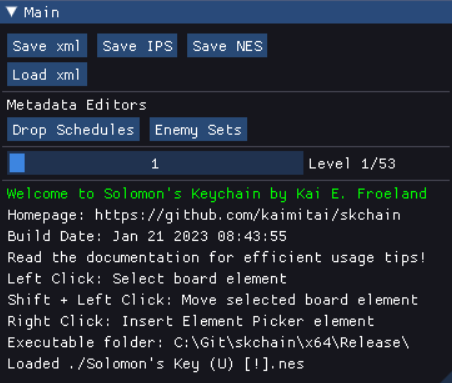
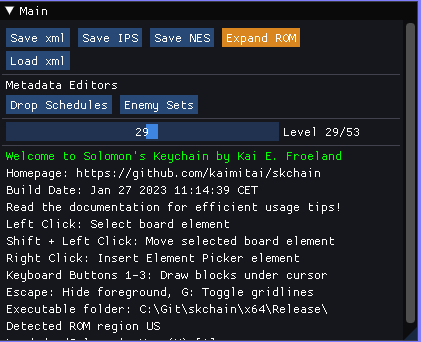
Update documentation for v1.0, and extract more item codes

diff --git a/docs/readme.html b/docs/readme.html
@@ -3,7 +3,7 @@
 
 <head>
     <meta charset="UTF-8">
-    <title>Solomon's Keychain v0.2 - Documentation</title>
+    <title>Solomon's Keychain v1.0 - Documentation</title>
     <link rel="stylesheet" href="style.css">
 </head>
 
@@ -57,9 +57,11 @@
 
                 <hr>
 
-                <header>Solomon's Keychain v0.2 - Documentation</header>
+                <header>Solomon's Keychain v1.0 - Documentation</header>
 
-                <p>Thank you for checking out <a href="https://github.com/kaimitai/skchain/">Solomon's Keychain</a>. With this tool you will be able to alter the level data and game metadata for Solomon's Key (NES). We support altering the US, EU and JP versions of the game. Check out the various sections of this document for an explanation of the program's functionality.</p>
+                <p>Thank you for checking out <a href="https://github.com/kaimitai/skchain/">Solomon's Keychain</a>. With this tool you will be able to alter the level data and game metadata for Solomon's Key (NES). We support altering the US, EU and JP versions of the game. The application also supports expanding the ROM to vastly increase data size.</p>
+
+                <p>Check out the various sections of this document for an explanation of the program's functionality.</p>
 
                 <p>In order to use the level editor efficiently, it is recommended to read the documentation.</p>
 
@@ -76,6 +78,8 @@
                 <p>The application can also be started from the command-line with path to a NES-file as parameter. This means you can drag and drop a ROM file on the application to immediately load the file, at least on Windows.</p>
 
                 <p>When the editor starts successfully, it will tell you which NES-ROM file is loaded, which region the ROM belongs to, and which directory it uses as the working directory.</p>
+
+                <p>If the US-version of the ROM was loaded, it can be expanded to overcome data size limits.</p>
 
                 <p>There are three element types in the editor: Items, Monsters and Metadata. You can select elements from the element picker, and right-click on the gameboard to insert them. Metadata elements are blocks, constellation background, key position, door position, player start position and so on. The item elements are game items, which can be hidden or inside breakable blocks. The third type, enemies, represents game enemies and other sprites; fairies and Mighty Bomb Jack.</p>
 
@@ -108,7 +112,8 @@
                     <li><b>Save xml</b> button: Saves your work as a group of xmls, stored under a subfolder ./xml of the loaded ROM-file. This is the recommended file format to use for development.</li>
                     <li><b>Save IPS</b> button: Saves your work as an IPS-patch, which is the difference between your work and the initially loaded NES-file. This is the recommended format for patch distribution, as long as the base ROM loaded is the "official" version.</li>
                     <li><b>Save NES</b> button: Saves your work as an NES-file. This is the recommended format when testing your levels. If you loaded "SK.nes", the output filename will be "SK-out.nes" to avoid overwriting your base ROM which was loaded. If you want to overwrite the file instead, hold Shift when saving.</li>
-                    <li><b>Load xml</b> button: Will load xml-files from the xml-subfolder, if they exist.</li>
+                    <li><b>Expand ROM</b> button: Only available when the base US-version of the ROM is loaded. This button will increase the ROM-size, which removes a lot of restrictions. Each demon mirror will get its own drop schedule and enemy set (enemy sets can contain up to 7 enemies), the output ROMs will not have any item data restrictions, and 15 enemies can be added to each level.</li>
+                    <li><b>Load xml</b> button: Will load xml-files from the xml-subfolder, if they exist. If the metadata xml indicates that it comes from an expanded ROM (by checking if there are 53x2 demon mirror drop schedules), the ROM will be expanded automatically if the currently loaded ROM is the base US-version</li>
                     <li><b>Drop Schedules</b> button: Will open/close the Demon Mirror Drop Schedules-window. Button is yellow when the window is active. See separate section.</li>
                     <li><b>Enemy Sets</b> button: Will open/close the Demon Mirror Enemy Sets-window. Button is yellow when the window is active. See separate section.</li>
                     <li><b>Level</b>-slider. Use to select which level to edit.</li>
@@ -146,7 +151,9 @@
                     <li><b>Left Click</b>: Select item on the gameboard. Will change element mode to the type of the selected element. (if you are in items editing mode and click on a metadata item, the editing mode will change to metadata) The selected element will be outlined by a pulsating yellow square</li>
                     <li><b>Shift + Left Click</b>: Move the selected element to the clicked location</li>
                     <li><b>Delete</b> keyboard button: Delete selected board element. (if this element is a door or a key, it will be hidden instead - and other metadata items cannot be deleted)</li>
+                    <li><b>1,2,3</b> keyboard buttons: When held, will draw empty tiles, brown blocks and white blocks under the mouse cursor, respectively</li>
                     <li><b>Tab</b> keyboard button: Will cycle between items of the same type. Hold shift to browse backward.
+                    <li><b>Escape</b> keyboard button: When held, will prevent the foreground from being drawn</li>
                     <li><b>G</b> keyboard button: Toggle gridlines</li>
                     <li><b>Ctrl+S</b> keyboard buttons: Save NES-file. Hold Shift to overwrite the input file</li>
                     <li><b>Up</b> keyboard button: Go to next level</li>
@@ -169,16 +176,21 @@
 
                 <p>All elements have position-sliders, which lets you change its position. (an alternative to Shift+Click) For Demon Mirrors, you can also set the drop schedule and enemy set - and a read-only preview will show at the bottom.</p>
 
-                <p>For the key position, you can also set properties "hidden" and "in block". All other metadata items have no other property than "position"</p>
+                <p>For the key position, you can also set properties "hidden" and "in block".</p>
 
+                <p>The "hide"-button will move the metadata element to position (0, -1).</p>
 
                 <img src="./images/subwin04_02_selected_element_item.png" alt="Selected Element: Items" width="400" />
 
                 <p>For element type Item, the properties are positions, as well as making the item hidden or stored in a block. In addition there is a delete-button, which is an alternative to keyboard button Delete</p>
 
+                <p>The "code"-slider will let you cycle through item codes at will.</p>
+
                 <img src="./images/subwin04_03_selected_element_enemy.png" alt="Selected Element: Items" width="400" />
 
                 <p>For element type Enemy, the properties are positions, as well as speed and direction, depending on the enemy.</p>
+
+                <p>The "code"-slider will let you cycle through enemy codes at will.</p>
 
                 <hr>
 
@@ -259,11 +271,21 @@
                     <br><a href="https://www.libsdl.org/">SDL2 (2.24.0)</a>
                 </p>
 
+                <p>Thanks to the developers of <a href="https://www.romhacking.net/utilities/906/">skedit</a>, for figuring out a way to expand the ROM</p>
+
             </section>
 
             <hr>
 
             <section class="main-section" id="changelog">
+
+                <header>2023-01-xx: v1.0</header>
+                <ul>
+                    <li>Added support for ROM expansion, to exceed the original size limits! (adds compatibility with <a href="https://www.romhacking.net/utilities/906/">skedit</a>)</li>
+                    <li>Added support for drawing background blocks regardless of editing mode (using keyboard buttons 1-3)</li>
+                    <li>Made it possible to hide all metadata elements (placing them at position <b>(0, -1)</b>)</li>
+                    <li>Added support for setting item/enemy code directly - among all possible codes - from the "Selected Element"-window</li>
+                </ul>
 
                 <header>2023-01-23: v0.2</header>
                 <ul>
@@ -287,9 +309,8 @@
                 </p>
 
                 <ul>
-                    <li>Support changing ROM mapper in order to increase the data sections</li>
-                    <li>Clean up the code, and reduce wasted cycles :)</li>
                     <li>Allow bmp import/export to change the graphics with bmp-files</li>
+                    <li>Clean up the code, and reduce wasted cycles</li>
                 </ul>
 
             </section>

diff --git a/skchain/source/skc_windows/SKC_Main_window_ui.cpp b/skchain/source/skc_windows/SKC_Main_window_ui.cpp
@@ -219,7 +219,7 @@ void skc::SKC_Main_window::draw_ui_selected_mirror(std::size_t p_mirror_no, cons
 	auto l_tileset = l_level.get_tileset_no();
 
 	ImGui::Separator();
-	ImGui::Text("Properties");
+	ImGui::Text(c::TXT_PROPERTIES);
 
 	byte l_spawn_index = l_level.get_spawn_schedule(p_mirror_no);
 	byte l_spawn_nmi_index = l_level.get_spawn_enemies(p_mirror_no);
@@ -366,14 +366,14 @@ void skc::SKC_Main_window::draw_ui_selected_tile_window(const SKC_Config& p_conf
 				l_level.set_item_element_no(l_index, l_elm_slider_no.value());
 
 			ImGui::Separator();
-			ImGui::Text("Position");
+			ImGui::Text(c::TXT_POSITION);
 
 			auto l_newpos{ imgui::position_sliders(l_items.at(l_index).get_position()) };
 			if (l_newpos)
 				l_level.set_item_position(l_index, l_newpos.value());
 
 			ImGui::Separator();
-			ImGui::Text("Properties");
+			ImGui::Text(c::TXT_PROPERTIES);
 
 			bool l_hidden{ skc::Level::is_item_hidden(l_elm_no) };
 			bool l_in_block{ skc::Level::is_item_in_block(l_elm_no) };
@@ -419,18 +419,18 @@ void skc::SKC_Main_window::draw_ui_selected_enemy(const SKC_Config& p_config) {
 			+ p_config.get_description(c::ELM_TYPE_ENEMY, l_enemy_no) };
 	ImGui::Text(l_desc.c_str());
 
-	auto l_elm_slider_no{ imgui::slider<byte>("Code", l_enemy_no, 1, 0x84) };
+	auto l_elm_slider_no{ imgui::slider<byte>("Code", l_enemy_no, 1, 0x83) };
 	if (l_elm_slider_no)
 		l_level.set_enemy_no(l_index, l_elm_slider_no.value());
 
 	ImGui::Separator();
-	ImGui::Text("Position");
+	ImGui::Text(c::TXT_POSITION);
 	auto l_newpos{ imgui::position_sliders(l_enemies.at(l_index).get_position()) };
 	if (l_newpos)
 		l_level.set_enemy_position(l_index, l_newpos.value());
 
 	ImGui::Separator();
-	ImGui::Text("Properties");
+	ImGui::Text(c::TXT_PROPERTIES);
 
 	auto l_new_enemy_no{ imgui::slider_enemy_properties(l_enemy_no, p_config.get_enemy_editor()) };
 	if (l_new_enemy_no)
@@ -458,7 +458,7 @@ void skc::SKC_Main_window::draw_ui_selected_metadata(const SKC_Config& p_config)
 
 	ImGui::Text(l_desc.c_str());
 	ImGui::Separator();
-	ImGui::Text("Position");
+	ImGui::Text(c::TXT_POSITION);
 
 	auto l_newpos{ imgui::position_sliders(get_metadata_tile_position(l_index), !l_meta_movable) };
 	if (l_newpos)
@@ -466,7 +466,7 @@ void skc::SKC_Main_window::draw_ui_selected_metadata(const SKC_Config& p_config)
 
 	if (l_index == c::MD_BYTE_NO_KEY) {
 		ImGui::Separator();
-		ImGui::Text("Properties");
+		ImGui::Text(c::TXT_PROPERTIES);
 
 		auto l_khidden{ imgui::checkbox("Hidden", l_level.is_key_hidden()) };
 		ImGui::SameLine();

diff --git a/skchain/source/skc_windows/SKC_Main_window.cpp b/skchain/source/skc_windows/SKC_Main_window.cpp
@@ -97,11 +97,13 @@ skc::SKC_Main_window::SKC_Main_window(SDL_Renderer* p_rnd, SKC_Config& p_config)
 	}
 
 	p_config.add_message("Executable folder: " + p_config.get_base_path());
+	p_config.add_message("Escape: Hide foreground, G: Toggle gridlines");
+	p_config.add_message("Keyboard Buttons 1-3: Draw blocks under cursor");
 	p_config.add_message("Right Click: Insert Element Picker element");
 	p_config.add_message("Shift + Left Click: Move selected board element");
 	p_config.add_message("Left Click: Select board element");
 	p_config.add_message("Read the documentation for efficient usage tips!");
-	p_config.add_message("Build Date: " + std::string(__DATE__) + " " + std::string(__TIME__));
+	p_config.add_message("Build Date: " + std::string(__DATE__) + " " + std::string(__TIME__) + " CET");
 	p_config.add_message("Homepage: https://github.com/kaimitai/skchain");
 	p_config.add_message("Welcome to Solomon's Keychain by Kai E. Froeland", c::MSG_CODE_SUCCESS);
 

diff --git a/skchain/source/skc_constants/Constants_application.h b/skchain/source/skc_constants/Constants_application.h
@@ -6,8 +6,8 @@
 namespace skc {
 	namespace c {
 
-		constexpr char APP_VERSION[]{ "0.2" };
-		constexpr char APP_TITLE[]{ "Solomon's Keychain v0.2" };
+		constexpr char APP_VERSION[]{ "1.0" };
+		constexpr char APP_TITLE[]{ "Solomon's Keychain v1.0" };
 		constexpr int APP_W{ 1024 + 435 }, APP_H{ 768 };
 
 		constexpr char FILENAME_CONFIG_XML[]{ "skc_config.xml" };
@@ -24,6 +24,8 @@ namespace skc {
 		constexpr int MSG_CODE_ERROR{ MSG_CODE_SUCCESS + 1 };
 
 		constexpr char TXT_UNKNOWN[]{ "Unknown" };
+		constexpr char TXT_POSITION[]{ "Position" };
+		constexpr char TXT_PROPERTIES[]{ "Properties" };
 		constexpr char TXT_X_POS[]{ "x-pos" };
 		constexpr char TXT_Y_POS[]{ "y-pos" };
 
